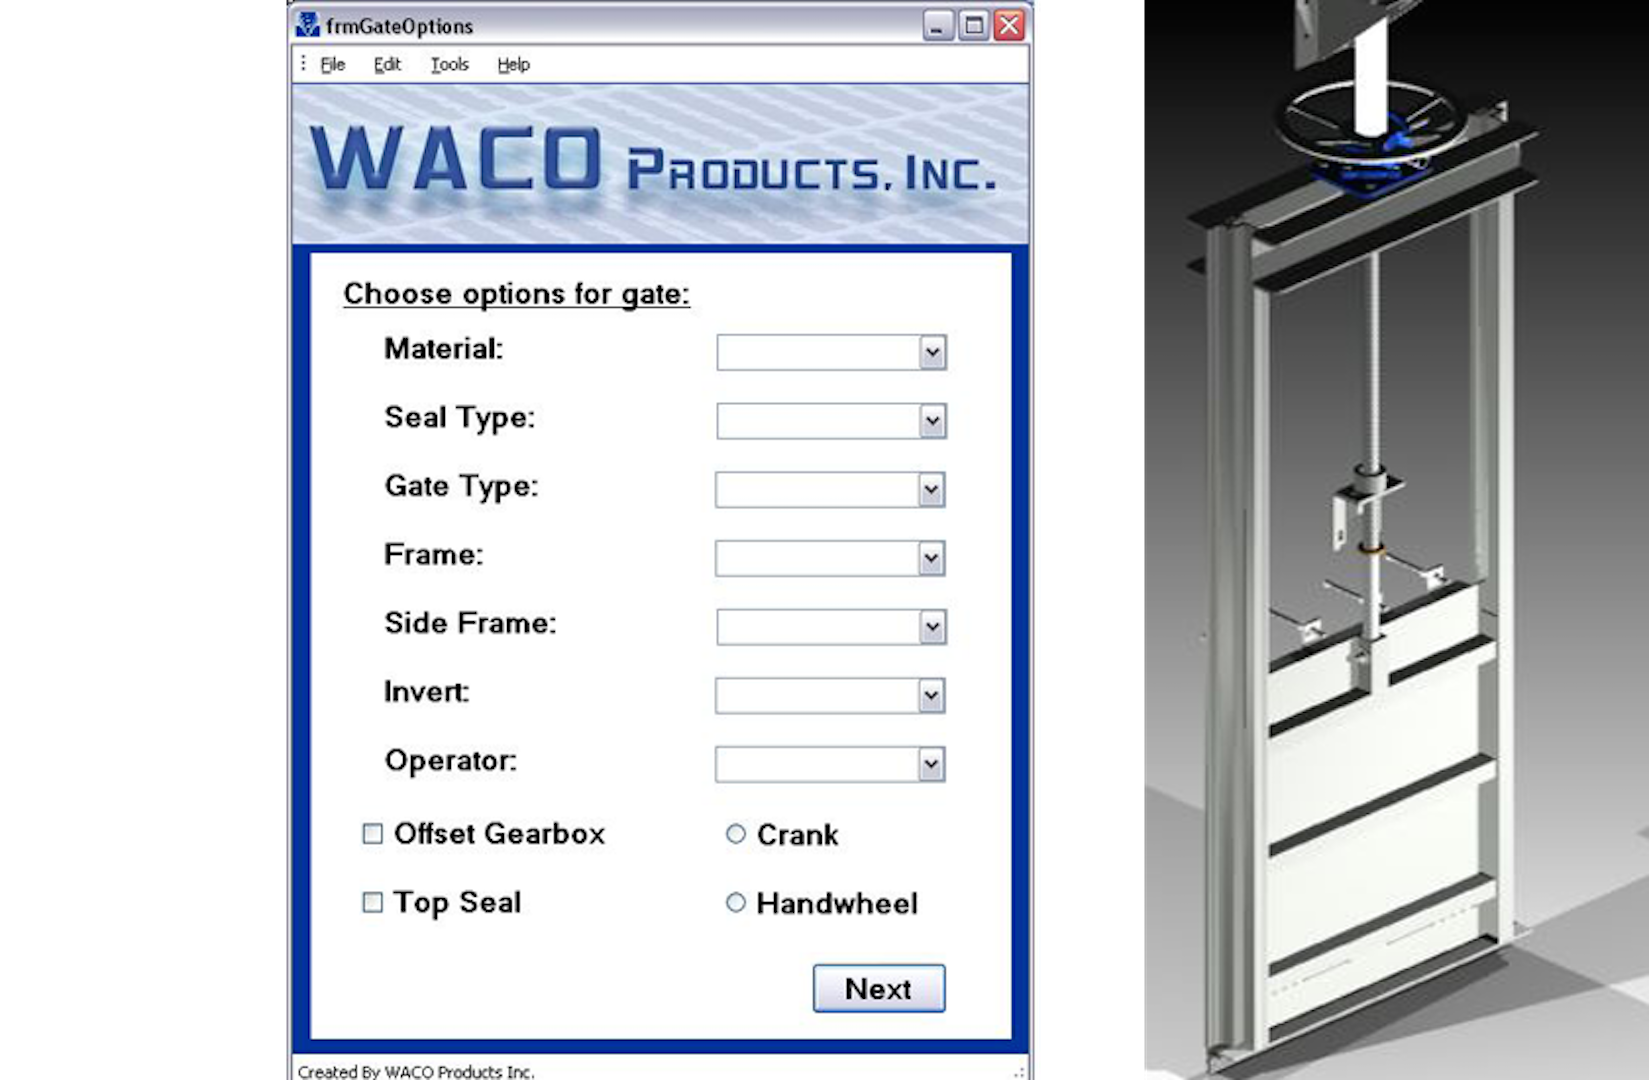
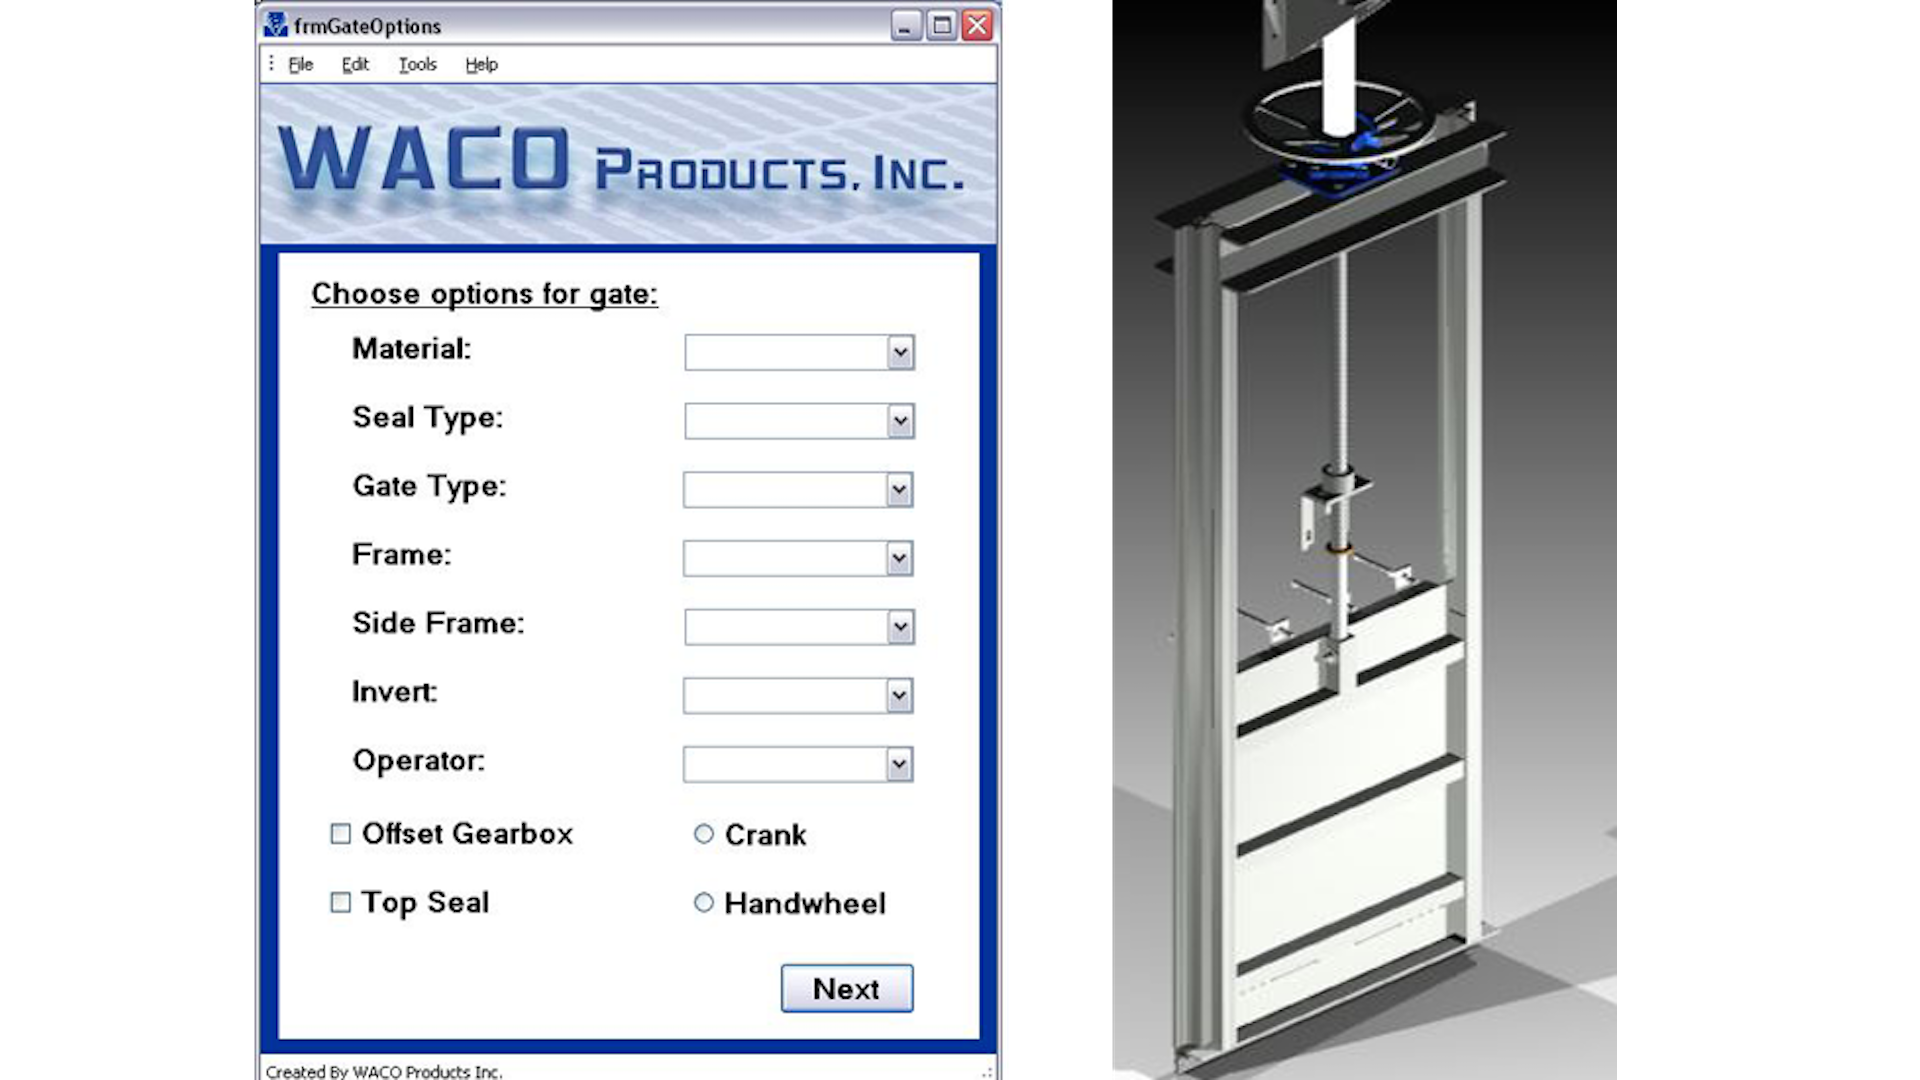
GateDesigner image modfied to have correct dimensions. Non secure reference to font changed and Reload.js commented out of index file.

diff --git a/dev/index.html b/dev/index.html
@@ -9,10 +9,9 @@
 		<meta name="apple-mobile-web-app-status-bar-style" content="black-translucent" />
 		<meta name="viewport" content="width=device-width, initial-scale=1.0, maximum-scale=1.0, user-scalable=no">
 		<!-- Open Sans font -->
-		<link href='http://fonts.googleapis.com/css?family=Open+Sans:300italic,400italic,600italic,700italic,400,300,600,700' rel='stylesheet' type='text/css'>
+		<link href='//fonts.googleapis.com/css?family=Open+Sans:300italic,400italic,600italic,700italic,400,300,600,700' rel='stylesheet' type='text/css'>
 		<!-- Personal Theme -->
 		<link rel="stylesheet" href="styles/main.css"></style>
-
 		<!-- Font Awesome -->
 		<link rel="stylesheet" href="//maxcdn.bootstrapcdn.com/font-awesome/4.3.0/css/font-awesome.min.css"></style>
 		<!-- Angulars Material CSS now available via Google CDN; -->
@@ -30,8 +29,6 @@
 		<script src="bower_components/angular-ui-router/release/angular-ui-router.js"></script>
 		<script src="bower_components/underscore/underscore.js"></script>
 		<!-- endbower -->
-
-
 		<!-- <link rel="stylesheet" href="styles/main.css"></style> -->
 	</head>
 	<body class="background-fill">
@@ -45,6 +42,6 @@
 		<script src="components/contact/contact-controller.js"></script>
 
 		<script src="lib/angular-fontawesome.js"></script>
-		<script src="//localhost:35729/livereload.js"></script>
+		<!-- <script src="//localhost:35729/livereload.js"></script> -->
 	</body>
 </html>

diff --git a/dev/js/app.js b/dev/js/app.js
@@ -1,5 +1,5 @@
 angular.module('portfolioApp', ['ui.router','picardy.fontawesome', 'ngMaterial', 'firebase'])
-.config(function($stateProvider, $urlRouterProvider, $mdThemingProvider){
+.config(function($stateProvider, $urlRouterProvider, $mdThemingProvider, $locationProvider){
   $stateProvider
   .state('navbar', {
     templateUrl: 'templates/navbar.html',

diff --git a/Gruntfile.js b/Gruntfile.js
@@ -161,7 +161,8 @@ module.exports = function(grunt) {
 
 	grunt.registerTask( 'test', [ 'build', 'connect:dist', 'watch' ] );
 
-
+	grunt.registerTask('images', ['aws_s3:images']);
+	
 	grunt.registerTask( 'build', ['copy', 'ngAnnotate', 'uglify:dist', 'htmlmin:dist', 'cssmin' ] );
 
   grunt.registerTask( 'stage', [ 'build', 'aws_s3:staging' ] );
